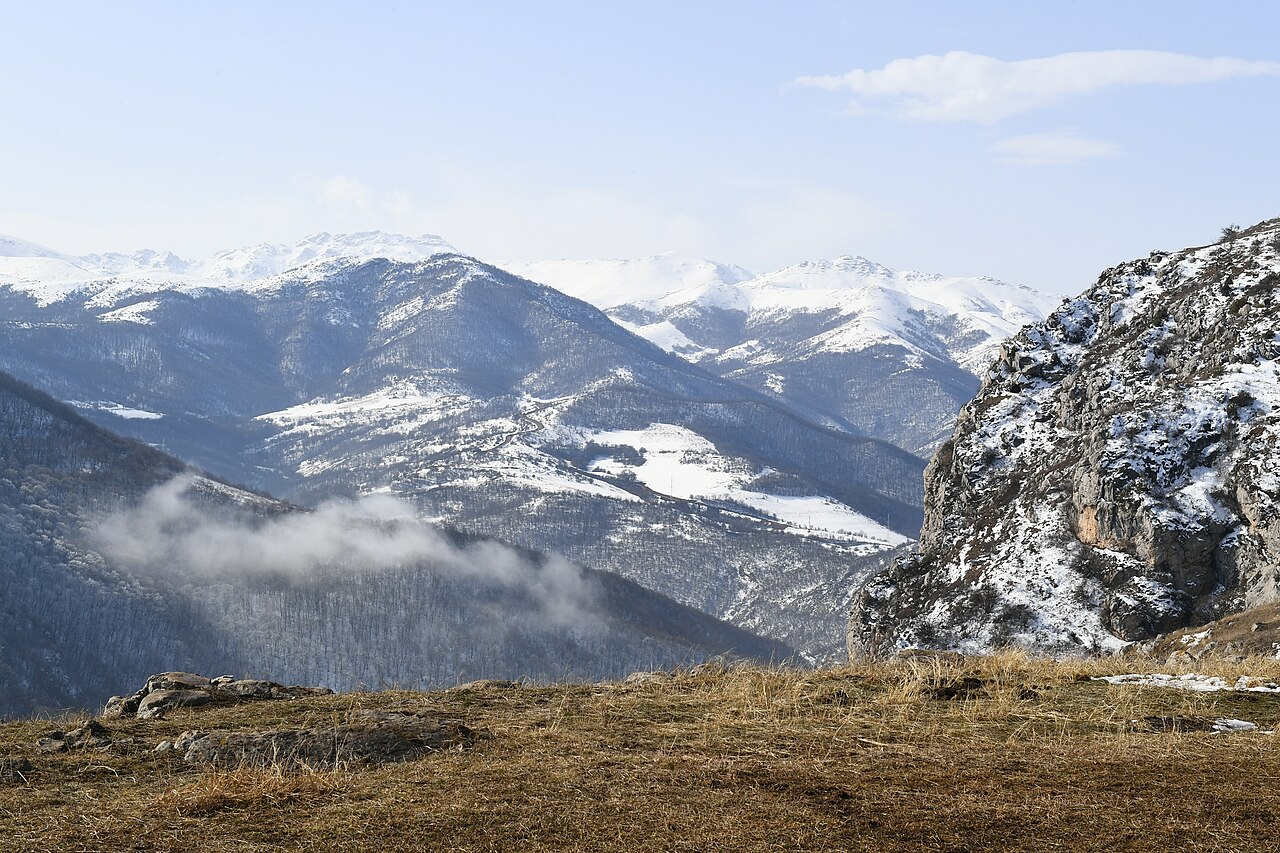
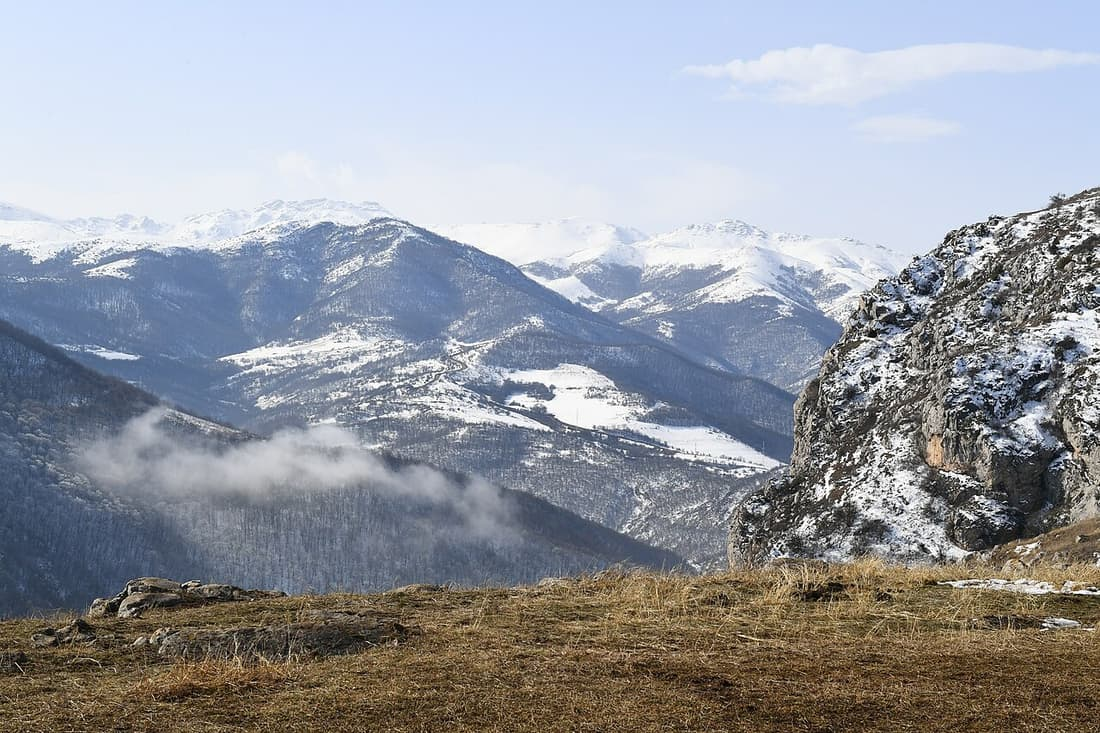
Serve SPA via file-first resolver, compress photos, add build/start scripts

diff --git a/backend/src/main/java/az/agro/portal/config/SpaConfig.java b/backend/src/main/java/az/agro/portal/config/SpaConfig.java
@@ -1,0 +1,37 @@
+package az.agro.portal.config;
+
+import org.springframework.context.annotation.Configuration;
+import org.springframework.core.io.ClassPathResource;
+import org.springframework.core.io.Resource;
+import org.springframework.web.servlet.config.annotation.ResourceHandlerRegistry;
+import org.springframework.web.servlet.config.annotation.WebMvcConfigurer;
+import org.springframework.web.servlet.resource.PathResourceResolver;
+
+import java.io.IOException;
+
+/**
+ * Serves the built React app. Real files (JS, CSS, images) are served as-is; any other path that is not an API
+ * and has no file extension is a client-side route (/xerite, /sahe/12, ...) and gets index.html.
+ */
+@Configuration
+public class SpaConfig implements WebMvcConfigurer {
+
+    @Override
+    public void addResourceHandlers(ResourceHandlerRegistry registry) {
+        registry.addResourceHandler("/**")
+                .addResourceLocations("classpath:/static/")
+                .resourceChain(true)
+                .addResolver(new PathResourceResolver() {
+                    @Override
+                    protected Resource getResource(String path, Resource location) throws IOException {
+                        Resource file = location.createRelative(path);
+                        if (file.exists() && file.isReadable()) return file;
+                        boolean apiLike = path.startsWith("api/") || path.startsWith("mock-") || path.startsWith("v3/");
+                        String last = path.substring(path.lastIndexOf('/') + 1);
+                        if (apiLike || last.contains(".")) return null;
+                        Resource index = new ClassPathResource("/static/index.html");
+                        return index.exists() ? index : null;
+                    }
+                });
+    }
+}

diff --git a/README.md b/README.md
@@ -48,6 +48,15 @@ npm run dev
 
 Vite `/api` sorğularını avtomatik 8080-ə yönləndirir.
 
+### Ən sadə yol (Windows)
+
+```bat
+build.bat
+start.bat
+```
+
+`start.bat reset` demo məlumatlarını ilkin vəziyyətə qaytarır (hər demo məşqindən sonra).
+
 ### 3. İstehsal rejimi (tək JAR)
 
 ```bash
